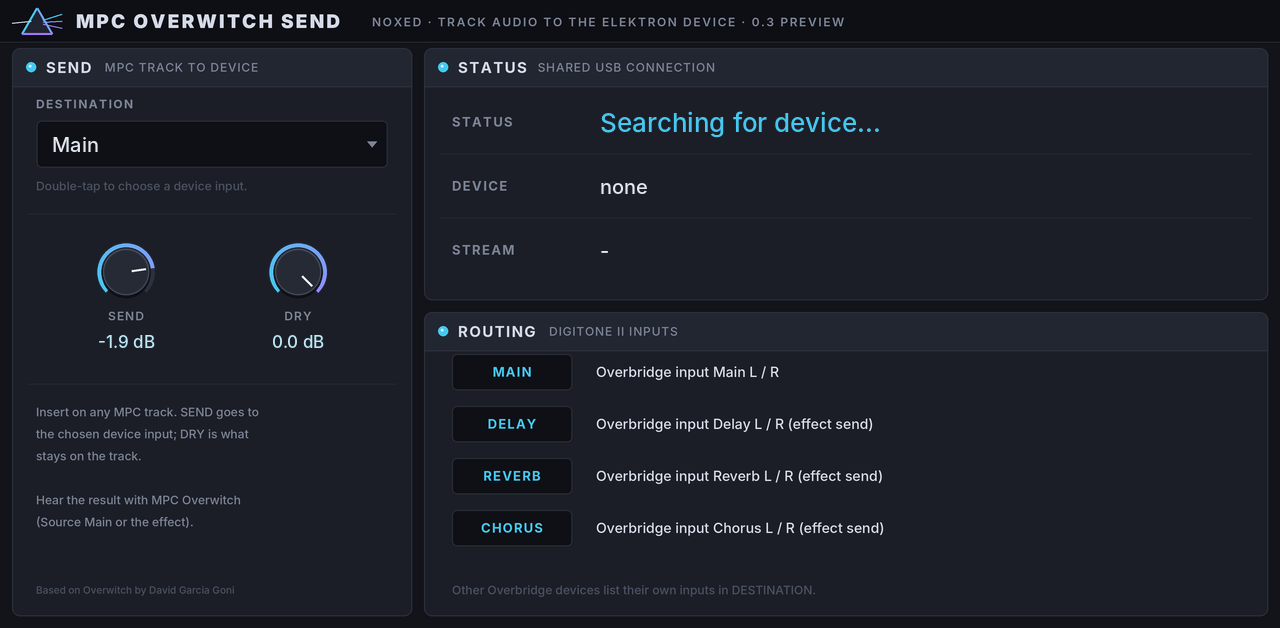
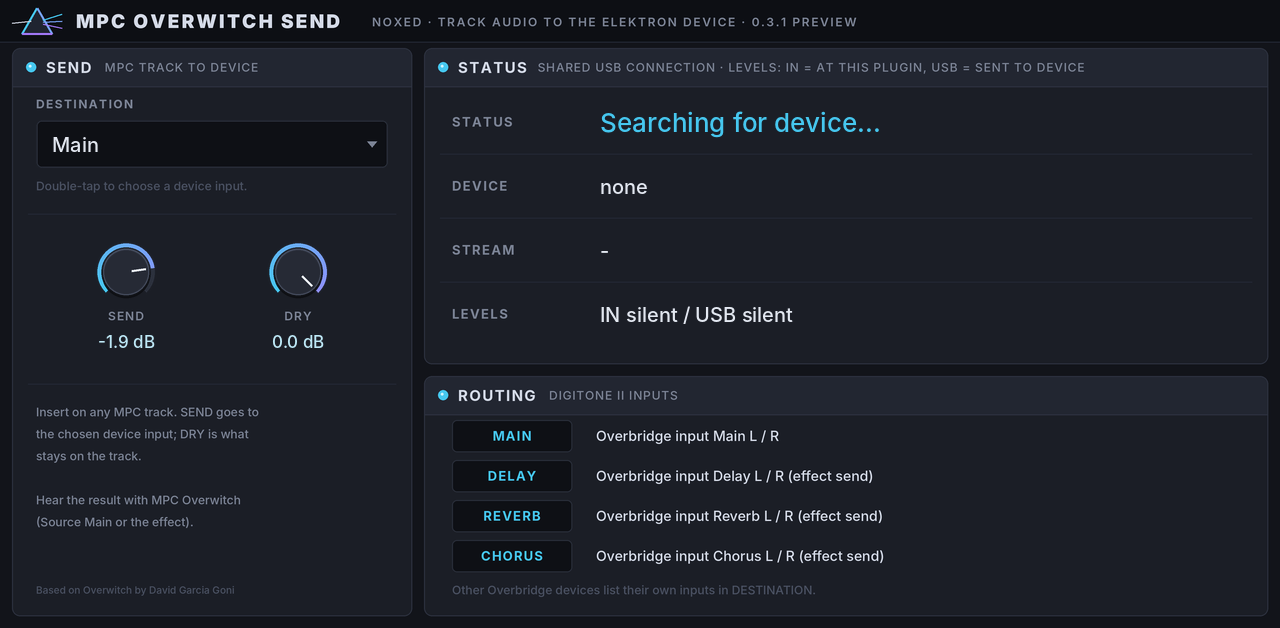
MPC Overwitch Send 0.3.1: IN/USB level meter for diagnosing sends
Shows the peak arriving at the plugin (after Send) and the peak the
engine mixes into the device input. Slot gained a field, so the shared
ABI is bumped to v4 and both plugins move to 0.3.1.

Claude-Session: https://claude.ai/code/session_01RXsLFM3GxpmJWQjxP9PUgj

diff --git a/plugins/MPC Overwitch Send/src/MPCOverwitchSend.cpp b/plugins/MPC Overwitch Send/src/MPCOverwitchSend.cpp
@@ -13,7 +13,8 @@
 //   0 Dry          track signal passed through (param 0, nudged by the host on load: harmless)
 //   1 Destination  device input: Main, Delay, Reverb, Chorus (Digitone II names)
 //   2 Send         level sent to the device
-//   3..5           read-only status rows: Status, Device, Stream
+//   3..6           read-only status rows: Status, Device, Stream, Levels (IN = signal arriving at
+//                  the plugin after SEND, USB = what the engine actually mixes into the device input)
 //
 // Licence: GPL-3.0-or-later (shares code with MPC Overwitch, based on Overwitch).
 
@@ -23,6 +24,7 @@
 #include "../../MPC Overwitch/src/ob_shared.h"
 #include "../../MPC Overwitch/src/ob_diag.h"
 
+#include <algorithm>
 #include <atomic>
 #include <chrono>
 #include <cmath>
@@ -32,7 +34,7 @@
 #include <vector>
 
 namespace {
-enum ParamIndex { kDry = 0, kDest, kSend, kStatus, kDevice, kStream, kNumParams };
+enum ParamIndex { kDry = 0, kDest, kSend, kStatus, kDevice, kStream, kLevels, kNumParams };
 std::vector<std::string> destNames() { return {"Main", "Delay", "Reverb", "Chorus"}; }
 std::string dB(float g) { return g < 1e-5f ? "-inf dB" : diag::fmt("%.1f dB", 20.0f * std::log10(g)); }
 } // namespace
@@ -45,9 +47,9 @@ public:
         addParam(mpc::floatParam("dry", "Dry", 0.0f, 1.0f, 1.0f));
         addParam(mpc::choiceParam("dest", "Destination", destNames(), 0));
         addParam(mpc::floatParam("send", "Send", 0.0f, 1.0f, 0.8f));
-        const char* ro[] = {"status", "device", "stream"};
-        const char* names[] = {"Status", "Device", "Stream"};
-        for (int i = 0; i < 3; ++i)
+        const char* ro[] = {"status", "device", "stream", "levels"};
+        const char* names[] = {"Status", "Device", "Stream", "Levels"};
+        for (int i = 0; i < 4; ++i)
         {
             mpc::Param p = mpc::floatParam(ro[i], names[i], 0.0f, 1.0f, 0.0f);
             p.automatable = false;
@@ -102,7 +104,7 @@ public:
             const int d = (int)std::lround(get(kDest));
             if (sl->route.load(std::memory_order_relaxed) != d) sl->route.store(d, std::memory_order_relaxed);
         }
-        float dg = dryG_, sg = sendG_;
+        float dg = dryG_, sg = sendG_, pk = 0.0f;
         const float k = 0.002f;
         for (int i = 0; i < n; ++i)
         {
@@ -110,10 +112,13 @@ public:
             const float r = inR ? inR[i] : 0.0f;
             dg += (dryT - dg) * k;
             sg += (sendT - sg) * k;
-            if (sl) sl->ring.push(l * sg, r * sg);
+            const float sL = l * sg, sR = r * sg;
+            pk = std::max(pk, std::max(std::fabs(sL), std::fabs(sR)));
+            if (sl) sl->ring.push(sL, sR);
             outL[i] = l * dg;
             outR[i] = r * dg;
         }
+        if (pk > inPeak_.load(std::memory_order_relaxed)) inPeak_.store(pk, std::memory_order_relaxed);
         if (sl) sl->ring.publish();
         dryG_ = dg;
         sendG_ = sg;
@@ -136,6 +141,7 @@ public:
             case kStatus: out = status_; return true;
             case kDevice: out = device_; return true;
             case kStream: out = stream_; return true;
+            case kLevels: out = levels_; return true;
             default: return false;
         }
     }
@@ -187,12 +193,17 @@ private:
                 stream = diag::clip(diag::fmt("%.1f ms, %u dropouts", sl.sendLatencyMs.load(), sl.sendDropouts.load()));
             }
         }
+        // Peaks since the last rebuild (0.5 s). The row redraws when IN or USB starts or stops carrying signal.
+        const float in = inPeak_.exchange(0.0f);
+        const float usb = (shared_ && slot_ >= 0) ? shared_->slots[slot_].sendUsbPeak.exchange(0.0f) : 0.0f;
+        auto lvl = [](float v) { return v < 1e-4f ? std::string("silent") : diag::fmt("%.0f dB", 20.0f * std::log10(v)); };
+        std::string levels = "IN " + lvl(in) + " / USB " + lvl(usb);
         const bool rateKnown = stream != "-";
-        std::string key = status + "|" + device + (rateKnown ? "|s" : "");
+        std::string key = status + "|" + device + (rateKnown ? "|s" : "") + (in >= 1e-4f ? "|i" : "") + (usb >= 1e-4f ? "|u" : "");
         std::lock_guard<std::mutex> lock(mutex_);
         bool changed = key != key_;
         key_ = key;
-        status_ = status; device_ = device; stream_ = stream; dests_ = dests;
+        status_ = status; device_ = device; stream_ = stream; levels_ = levels; dests_ = dests;
         return changed;
     }
 
@@ -202,7 +213,7 @@ private:
         info.name         = "MPC Overwitch Send";
         info.vendor       = "NOXED";   // must match plugin.json "manufacturer"
         info.uniqueId     = MPC_FOURCC(kUid[0], kUid[1], kUid[2], kUid[3]);   // must match plugin.json "uid"
-        info.version      = 300;            // 0.3.0
+        info.version      = 301;            // 0.3.1
         info.isInstrument = false;
         info.numInputs    = 2;
         info.numOutputs   = 2;
@@ -219,7 +230,8 @@ private:
     std::thread monitor_;
     std::atomic<bool> stop_{false};
     std::mutex mutex_;
-    std::string status_, device_, stream_, key_;
+    std::string status_, device_, stream_, levels_, key_;
+    std::atomic<float> inPeak_{0.0f};
     std::vector<ob::Source> dests_;
 };
 

diff --git a/tools/make_overwitch_skin.py b/tools/make_overwitch_skin.py
@@ -24,7 +24,7 @@ def build(params):
     pw.line(d, [(0, 42), (W, 42)], '#232835', 1)
     pw.prism_logo(d, 22, 8)
     pw.text(d, (76, 21), 'MPC OVERWITCH', 19, 'black', pw.TEXT, 'lm', spacing=2.2)
-    pw.text(d, (300, 22), 'NOXED · OVERBRIDGE FOR THE MPC · 0.3 PREVIEW', 12, 'semibold', pw.MUTED, 'lm', spacing=1.6)
+    pw.text(d, (300, 22), 'NOXED · OVERBRIDGE FOR THE MPC · 0.3.1 PREVIEW', 12, 'semibold', pw.MUTED, 'lm', spacing=1.6)
 
     children = []
     # Output panel: source and level.
@@ -104,7 +104,7 @@ def build(params):
 
 
 SEND_SKINS = ROOT / 'plugins' / 'MPC Overwitch Send' / 'skins'
-SEND_ROWS = [(3, 'STATUS'), (4, 'DEVICE'), (5, 'STREAM')]
+SEND_ROWS = [(3, 'STATUS'), (4, 'DEVICE'), (5, 'STREAM'), (6, 'LEVELS')]
 
 
 def build_send(params):
@@ -115,7 +115,7 @@ def build_send(params):
     pw.line(d, [(0, 42), (W, 42)], '#232835', 1)
     pw.prism_logo(d, 22, 8)
     pw.text(d, (76, 21), 'MPC OVERWITCH SEND', 19, 'black', pw.TEXT, 'lm', spacing=2.2)
-    pw.text(d, (372, 22), 'NOXED · TRACK AUDIO TO THE ELEKTRON DEVICE · 0.3 PREVIEW', 12, 'semibold', pw.MUTED, 'lm', spacing=1.6)
+    pw.text(d, (372, 22), 'NOXED · TRACK AUDIO TO THE ELEKTRON DEVICE · 0.3.1 PREVIEW', 12, 'semibold', pw.MUTED, 'lm', spacing=1.6)
     children = []
     pw.panel_box(d, (12, 48, 412, 616), 'SEND', subtitle='MPC TRACK TO DEVICE')
     pw.text(d, (36, 104), 'DESTINATION', 12, 'bold', pw.MUTED, 'lm', spacing=1.4)
@@ -132,7 +132,7 @@ def build_send(params):
                            '', 'Hear the result with MPC Overwitch', '(Source Main or the effect).']):
         pw.text(d, (36, 412 + i * 22), t, 12, 'medium', pw.MUTED, 'lm')
     pw.text(d, (36, 590), 'Based on Overwitch by David Garcia Goni', 10, 'medium', pw.DIM, 'lm')
-    pw.panel_box(d, (424, 48, 1268, 300), 'STATUS', subtitle='SHARED USB CONNECTION')
+    pw.panel_box(d, (424, 48, 1268, 364), 'STATUS', subtitle='SHARED USB CONNECTION · LEVELS: IN = AT THIS PLUGIN, USB = SENT TO DEVICE')
     for i, (prm, name) in enumerate(SEND_ROWS):
         y = 100 + i * 64
         if i:
@@ -141,12 +141,12 @@ def build_send(params):
         children.append(pw.entry('row %d' % prm, 'Label',
                                  ui.label_data('Value', 'ff46c8f0' if prm == 3 else 'ffe4e9f2', 28.0 if prm == 3 else 22.0,
                                                'left verticallyCentred'), '600 %d 650 44' % y, [('Data', 'Parameter %d' % prm)]))
-    pw.panel_box(d, (424, 312, 1268, 616), 'ROUTING', subtitle='DIGITONE II INPUTS')
+    pw.panel_box(d, (424, 376, 1268, 616), 'ROUTING', subtitle='DIGITONE II INPUTS')
     rows = [('MAIN', 'Overbridge input Main L / R'), ('DELAY', 'Overbridge input Delay L / R (effect send)'),
             ('REVERB', 'Overbridge input Reverb L / R (effect send)'), ('CHORUS', 'Overbridge input Chorus L / R (effect send)')]
     for i, (a, b) in enumerate(rows):
-        y = 372 + i * 52
-        pw.rrect(d, (452, y - 18, 572, y + 18), pw.FIELD, '#2a2f3b', 1, 5)
+        y = 436 + i * 40
+        pw.rrect(d, (452, y - 16, 572, y + 16), pw.FIELD, '#2a2f3b', 1, 5)
         pw.text(d, (512, y), a, 13, 'bold', pw.ACCENT, 'mm', spacing=1.2)
         pw.text(d, (596, y), b, 14, 'medium', pw.TEXT, 'lm')
     pw.text(d, (452, 590), 'Other Overbridge devices list their own inputs in DESTINATION.', 12, 'medium', pw.DIM, 'lm')

diff --git a/plugins/MPC Overwitch/src/ob_usb.h b/plugins/MPC Overwitch/src/ob_usb.h
@@ -20,6 +20,7 @@
 #include <chrono>
 #include <cstdio>
 #include <cstdlib>
+#include <cmath>
 #include <cstring>
 #include <algorithm>
 #include <mutex>
@@ -143,6 +144,7 @@ struct Slot
     std::atomic<uint32_t> epoch{0};          // bumped by the plugin on (re)start; the engine resets its reader
     std::atomic<uint32_t> sendDropouts{0};   // send slots: reported by the engine
     std::atomic<double> sendLatencyMs{0.0};
+    std::atomic<float> sendUsbPeak{0.0f};    // send slots: peak actually mixed into the USB blocks (engine writes, UI resets)
     StereoRing ring;
 };
 
@@ -416,8 +418,10 @@ private:
             sl.sendDropouts.store(sendRd_[k].dropouts(), std::memory_order_relaxed);
             sl.sendLatencyMs.store(sendRd_[k].latencyMs(), std::memory_order_relaxed);
             const int tl = destsLocal_[(size_t)d].left, tr = destsLocal_[(size_t)d].right;
+            float pk = 0.0f;
             for (int f = 0; f < nFrames; ++f)
             {
+                pk = std::max(pk, std::max(std::fabs(tmpL_[(size_t)f]), std::fabs(tmpR_[(size_t)f])));
                 if (tl == tr) mix_[(size_t)(f * nIn + tl)] += 0.5f * (tmpL_[(size_t)f] + tmpR_[(size_t)f]);
                 else
                 {
@@ -425,6 +429,7 @@ private:
                     mix_[(size_t)(f * nIn + tr)] += tmpR_[(size_t)f];
                 }
             }
+            if (pk > sl.sendUsbPeak.load(std::memory_order_relaxed)) sl.sendUsbPeak.store(pk, std::memory_order_relaxed);
             any = true;
         }
         for (int b = 0; b < kBlocksPerTransfer; ++b)

diff --git a/plugins/MPC Overwitch/src/MPCOverwitch.cpp b/plugins/MPC Overwitch/src/MPCOverwitch.cpp
@@ -41,7 +41,7 @@ namespace {
 
 enum ParamIndex { kLevel = 0, kSource, kLine, kStatus, kDevice, kStream, kDropouts, kSystem, kNumParams };
 constexpr int kMaxLines = 64;
-const char* const kVersion = "0.3.0";
+const char* const kVersion = "0.3.1";
 
 std::vector<std::string> sourceNames()
 {
@@ -289,7 +289,7 @@ private:
         info.name         = "MPC Overwitch";
         info.vendor       = "NOXED";   // must match plugin.json "manufacturer"
         info.uniqueId     = MPC_FOURCC(kUid[0], kUid[1], kUid[2], kUid[3]);   // must match plugin.json "uid"
-        info.version      = 300;            // 0.3.0
+        info.version      = 301;            // 0.3.1
         info.isInstrument = true;
         info.numInputs    = 0;
         info.numOutputs   = 2;

diff --git a/plugins/MPC Overwitch/src/ob_shared.h b/plugins/MPC Overwitch/src/ob_shared.h
@@ -28,7 +28,7 @@
 
 namespace ob {
 
-constexpr uint32_t kAbi = 0x4f420003;   // "OB" v3
+constexpr uint32_t kAbi = 0x4f420004;   // "OB" v4 (0.3.1: send peak meter in Slot)
 
 struct Shared
 {

diff --git a/plugins/MPC Overwitch Send/README.md b/plugins/MPC Overwitch Send/README.md
@@ -1,4 +1,4 @@
-# NOXED MPC Overwitch Send 0.3.0 – MPC-Audio zum Elektron-Gerät (Vorschau)
+# NOXED MPC Overwitch Send 0.3.1 – MPC-Audio zum Elektron-Gerät (Vorschau)
 
 Effekt-Plugin zu [MPC Overwitch](../MPC%20Overwitch/README.md). Als Insert auf einer beliebigen MPC-Spur schickt es deren Audio per Overbridge an einen Eingang des Elektron-Geräts. Beim Digitone II sind das Main, Delay, Reverb oder Chorus, also auch die Effekt-Sends des Digitone. Die Umrechnung von der MPC-Rate auf 48 kHz folgt dabei der Taktabweichung, genau wie beim Empfang.
 
@@ -12,6 +12,7 @@ Send und MPC Overwitch teilen sich eine USB-Verbindung: Beide Plugins können gl
 - **SEND:** Pegel zum Gerät (Standard −1,9 dB).
 - **DRY:** was auf der MPC-Spur bleibt (Standard 0 dB). Ganz zu, wenn die Spur nur noch über das Gerät klingen soll.
 - **STATUS / DEVICE / STREAM:** Verbindung, Gerät, Puffer-Latenz und Aussetzer der Senderichtung.
+- **LEVELS:** `IN` = Spitzenpegel, der am Plugin ankommt (nach SEND); `USB` = was die Engine tatsächlich zum Gerät mischt. Steht IN auf „silent“, liegt auf der Spur kein Signal an. Steht IN auf einem Pegel und USB auf „silent“, liegt das Problem in der Engine. Zeigen beide einen Pegel und am Gerät kommt nichts an, liegt es am Gerät (Routing/Einstellung) oder an der Kodierung.
 
 Q-Links: Destination, Send, Dry.
 

diff --git a/plugins/MPC Overwitch/README.md b/plugins/MPC Overwitch/README.md
@@ -1,4 +1,4 @@
-# NOXED MPC Overwitch 0.3.0 – mehrere Spuren
+# NOXED MPC Overwitch 0.3.1 – mehrere Spuren
 
 MPC Overwitch holt den Ton eines Elektron-Geräts per **Overbridge** direkt in die MPC. Zuerst getestet wird der Digitone II, die Tabelle enthält auch Digitakt II, Digitakt, Digitone (Keys), Syntakt, Analog Four/Rytm MKII und Analog Heat. Das Gerät liefert 48 kHz; das Plugin rechnet auf die Samplerate der MPC um (44,1 kHz) und gleicht dabei die kleine Taktabweichung zwischen beiden Geräten laufend aus. Damit fällt das Samplerate-Problem von USB-Audio weg.
 
@@ -47,6 +47,7 @@ Q-Links: erste Reihe Source und Level, zweite Reihe Report. Im Program-Modus Q-L
 
 ## Verlauf
 
+- **0.3.1:** Pegelanzeige im Send-Plugin; beide Plugins müssen 0.3.1 sein.
 - **0.3.0:** Bis zu 16 Instanzen gleichzeitig mit eigener Quelle; gemeinsame USB-Verbindung mit dem neuen Effekt MPC Overwitch Send (Audio zum Gerät). Noch nicht auf Hardware getestet.
 - **0.2.1:** Die STREAM-Zeile aktualisiert sich, sobald die erste Ratenmessung vorliegt (vorher blieb „0.00 kHz“ stehen).
 - **0.2.0:** Overbridge-Streaming vom Gerät zur MPC, Quellenwahl, Pegel, Drift-Ausgleich. Auf der MPC Live III mit Digitone II erfolgreich getestet.

diff --git a/CHANGELOG.md b/CHANGELOG.md
@@ -1,5 +1,10 @@
 # Änderungen
 
+## MPC Overwitch / MPC Overwitch Send 0.3.1
+
+- Send: neue Zeile LEVELS mit zwei Pegeln. IN zeigt, was am Plugin ankommt (nach SEND), USB zeigt, was die Engine tatsächlich zum Gerät mischt. Beides als Diagnose, weil ein Reverb-Send im ersten Test nicht ankam (auf der Spur lag dabei kein Signal an).
+- Gemeinsames Layout geändert (ABI v4): Beide Plugins müssen 0.3.1 sein.
+
 ## MPC Overwitch 0.3.0 und MPC Overwitch Send 0.3.0 (neu)
 
 - Mehrere Spuren: bis zu 16 Instanzen gleichzeitig, jede mit eigener SOURCE, über eine gemeinsame USB-Engine pro MPC-Prozess.
